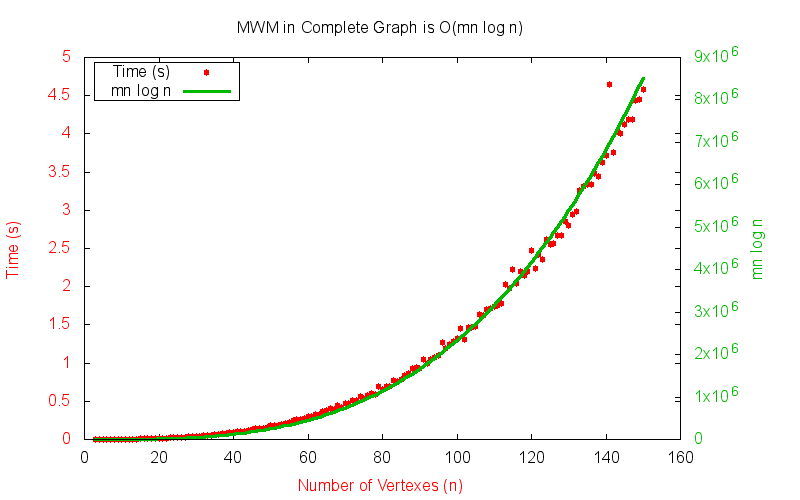
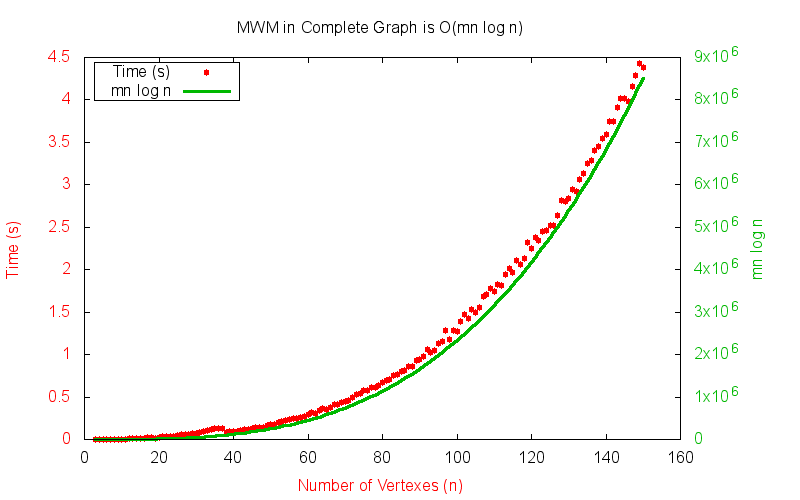
Optimize: Replace UnDirectedEdge with Array of int

diff --git a/lib/graph_matching/algorithm/mwm_general.rb b/lib/graph_matching/algorithm/mwm_general.rb
@@ -916,7 +916,7 @@ module GraphMatching
         # Make a local copy of the edges.  We'll refer to edges
         # by number throughout throughout the algorithm and it's
         # important that the order be consistent.
-        @edges = g.edges.to_a
+        @edges = g.edges.map { |e| [e.source, e.target] }
 
         # In Joris van Rantwijk's implementation, there seems to be
         # a concept of "edge numbers".  His `endpoint` array has two
@@ -929,7 +929,7 @@ module GraphMatching
         # > Not modified by the algorithm.
         # > (Van Rantwijk, mwmatching.py, line 93)
         #
-        @endpoint = @edges.map { |e| [e.source, e.target] }.flatten
+        @endpoint = @edges.flatten
 
         # > If v is a vertex,
         # > neighbend[v] is the list of remote endpoints of the edges attached to v.
@@ -940,9 +940,9 @@ module GraphMatching
 
       def init_neighb_end(nvertex, edges)
         neighb_end = Array.new(nvertex) { [] }
-        edges.each_with_index do |e, k|
-          neighb_end[e.source].push(2 * k + 1)
-          neighb_end[e.target].push(2 * k)
+        edges.each_with_index do |(i,j), k|
+          neighb_end[i].push(2 * k + 1)
+          neighb_end[j].push(2 * k)
         end
         neighb_end
       end
